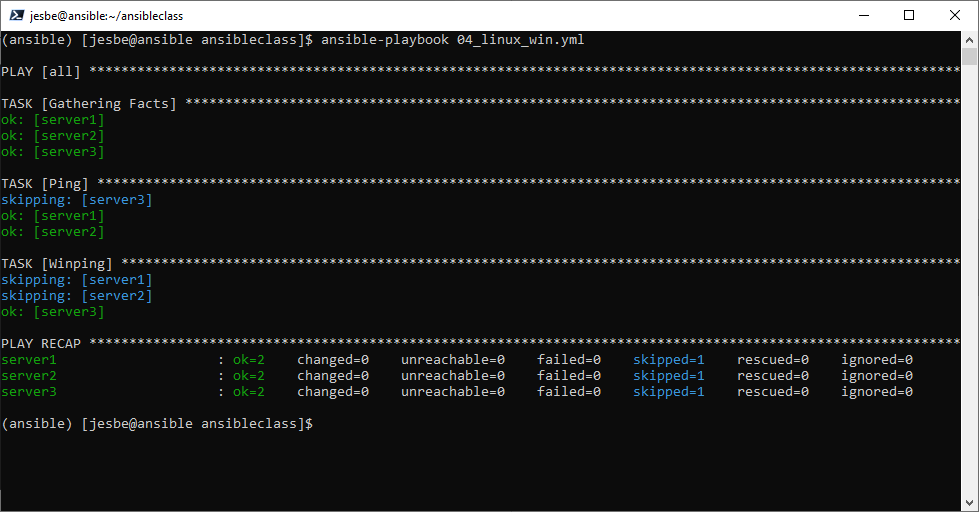
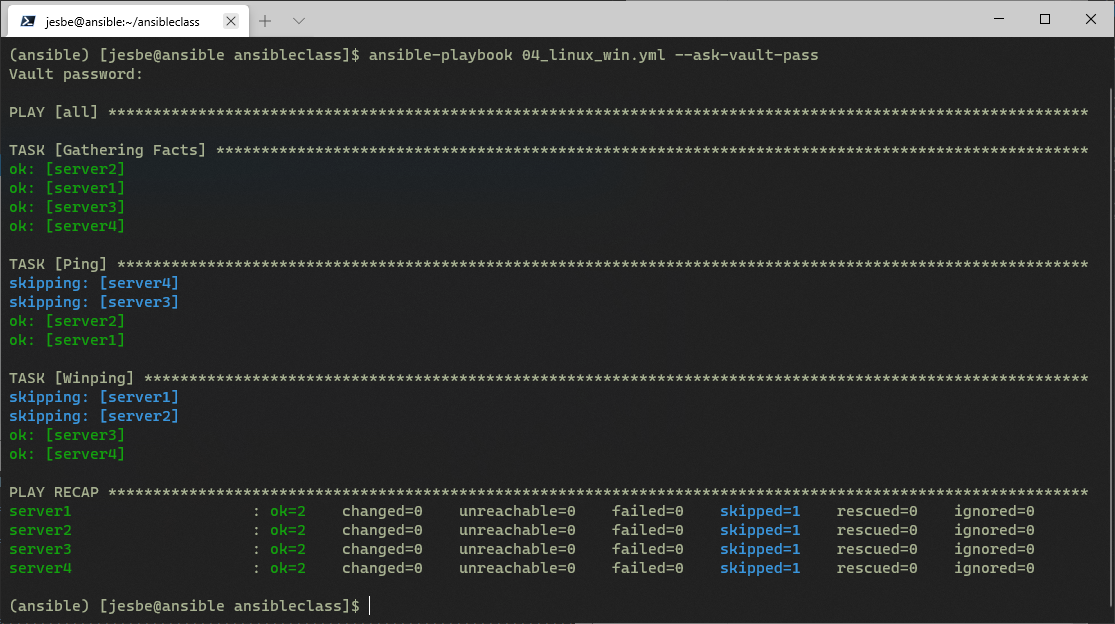
changed facts and conditions

Changed region(s): [[0.0, 0.0, 1.0, 1.0]]

diff --git a/lab03/lab3.md b/lab03/lab3.md
@@ -230,7 +230,7 @@ cd ansibleclass
 
 git pull
 
-ansible-playbook 04_linux_win.yml
+ansible-playbook 04_linux_win.yml --ask-vault-pass
 
 ```
 
